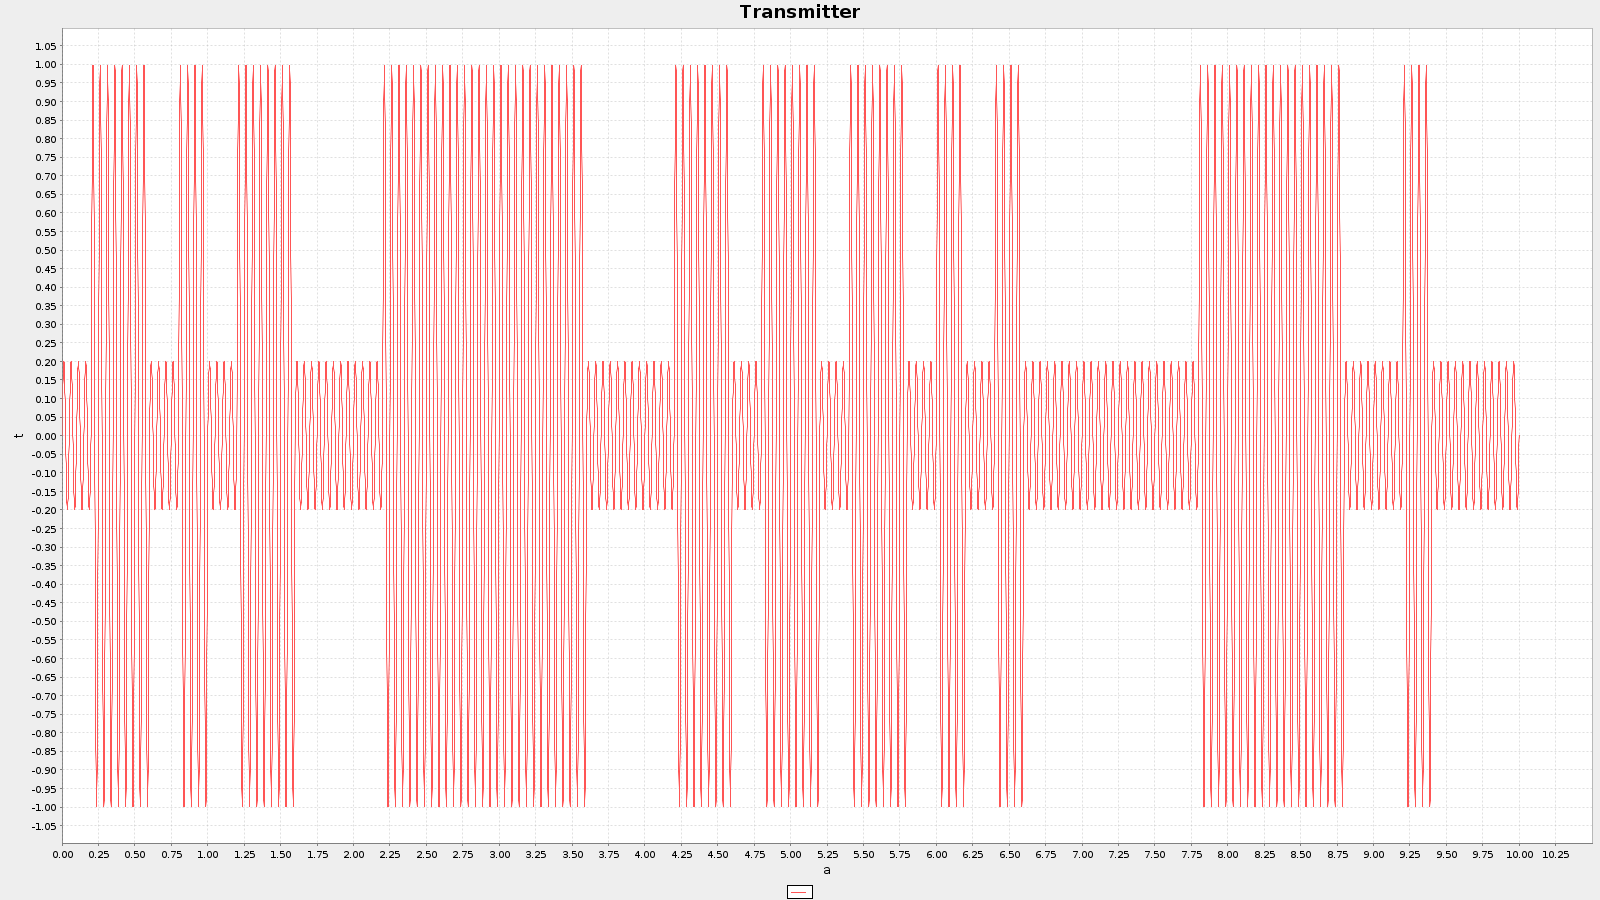
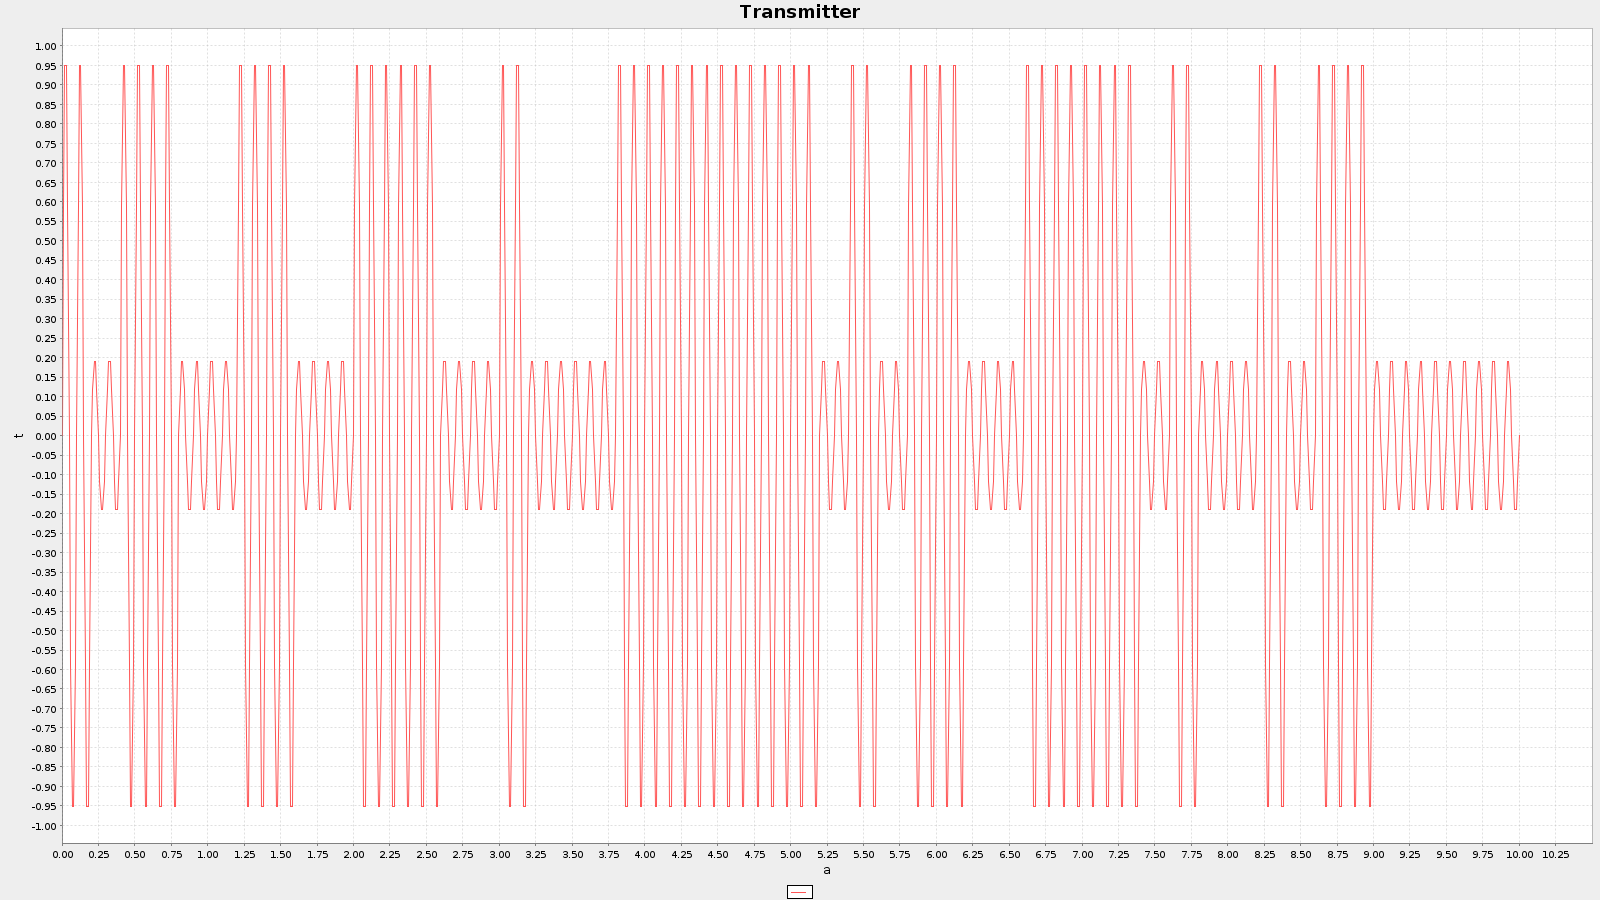
more simulator improvements

Changed region(s): [[0.0, 0.0622, 0.9688, 0.9022]]

diff --git a/channel-simulation/java-channel-simulation/src/main/java/main/Main.java b/channel-simulation/java-channel-simulation/src/main/java/main/Main.java
@@ -88,12 +88,12 @@ public class Main {
 
     public static void main(String[] args) {
         double noise = 100;
-        double depth = .8, amplitude = 1, carrierF = 20, modulationF = 5;
+        double depth = .8, amplitude = 1, carrierF = 10, modulationF = 5;
         ASKModulator modulator = new ASKModulator(depth, amplitude, carrierF, modulationF, new RandomStream());
-        Channel channel = new Channel(null, modulator.getRMS(), noise);
+        Channel channel = new Channel(new Filter(0, 30), modulator.getRMS(), noise);
         Receiver receiver = new Receiver(new ASKDemodulator(depth, amplitude, carrierF, modulationF));
 
-        Simulator simulator = new Simulator(new Transmitter(modulator), receiver, channel, 0, 10, 0.001, false);
+        Simulator simulator = new Simulator(new Transmitter(modulator), receiver, channel, 0, 10, 0.01, true);
 
         Thread t1 = new Thread(() -> {
             while (!receiver.getDemodulator().getDataOut().isClosed()) {

diff --git a/channel-simulation/java-channel-simulation/src/main/java/util/DFT.java b/channel-simulation/java-channel-simulation/src/main/java/util/DFT.java
@@ -1,0 +1,5 @@
+package util;
+
+public class DFT {
+
+}
